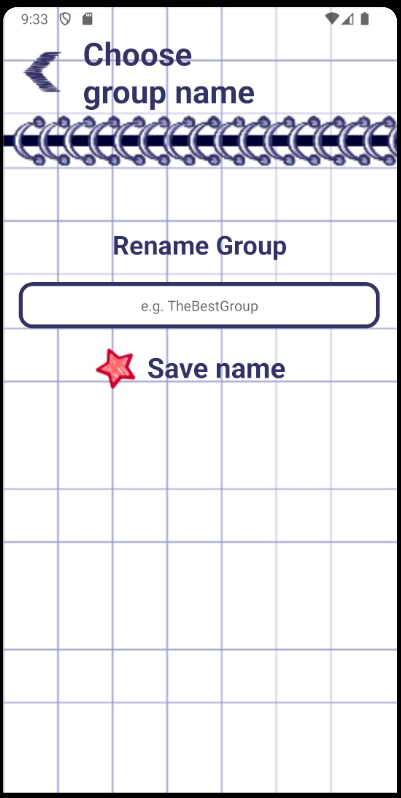
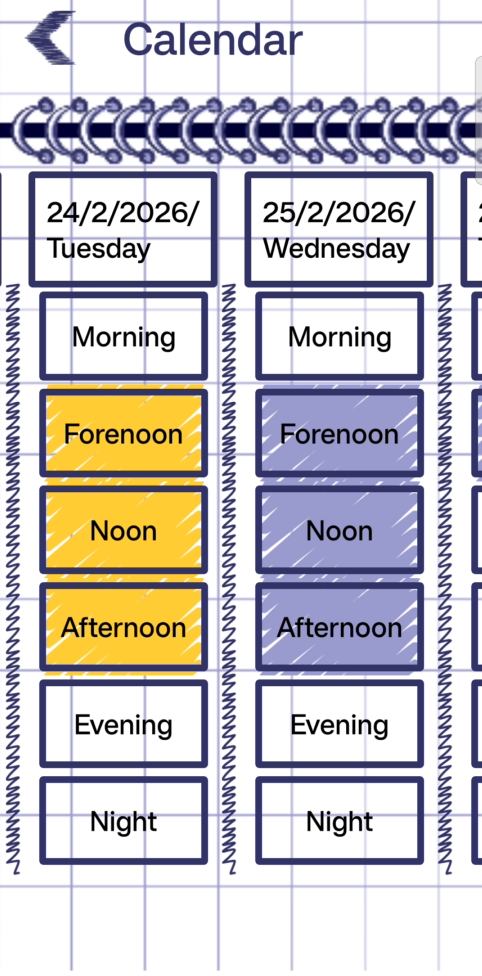
Added Coordit and added parameter for projectpages carousel options

diff --git a/src/app/projects/project-pages/project-page.html b/src/app/projects/project-pages/project-page.html
@@ -5,15 +5,18 @@
     <span class="techonologies-used">{{project().technologiesUsed?.join(", ")}}</span>
     }
     @if (!isUndefined(project().screenshotFolder)) {
-    <pp-carousel-holder-component [screenshotFolder]="project().screenshotFolder??''"
+    <pp-carousel-holder-component [customOptionsInput]="project().carouselOptions"
+        [screenshotFolder]="project().screenshotFolder??''"
         [screenshotFilenames]="project().screenshotFilenames??[]"></pp-carousel-holder-component>
     }
 
     <project-description [descriptionText]="project().longDescription"></project-description>
 
+    @if(!isUndefined(project().linkText)) {
     <p class="link-to-project"
-        [innerHTML]="parseLinkText(project().linkText??'See the project [here]', project().linkToProject)">
+        [innerHTML]="parseLinkText(project().linkText??'See the project [here]', project().linkToProject??'')">
     </p>
+    }
 
     @if(!isUndefined(project().alternateLinkToProject)) {
     <p class="link-to-project"

diff --git a/src/app/projects/project-pages/pp-carousel/pp-carousel-holder-component.ts b/src/app/projects/project-pages/pp-carousel/pp-carousel-holder-component.ts
@@ -25,10 +25,8 @@ export class PPCarouselHolderComponent {
     customOptions: OwlOptions = {
         loop: true,
         items: 1,
-        mouseDrag: true,
-        touchDrag: true,
-        center: true,
-        pullDrag: false,
+        autoWidth: true,
+        autoHeight: false,
         dots: false,
         navSpeed: 700,
         autoplaySpeed: 700,
@@ -36,12 +34,17 @@ export class PPCarouselHolderComponent {
         navText: ['', ''],
         nav: true
     }
+
     screenshotFolder = input.required<string>();
     screenshotFilenames = input.required<Array<string>>();
+    customOptionsInput = input<OwlOptions>();
 
     slidesStore = signal<any[]>([{ id: 'slide1' }]);
     ngOnInit() {
+
         this.slidesStore = signal<any[]>(this.createSlidesStore());
+        this.customOptions = { ...this.customOptions, ...this.customOptionsInput() }
+
     }
 
 }

diff --git a/src/app/projects/project-pages/pp-carousel/pp-carousel-holder.html b/src/app/projects/project-pages/pp-carousel/pp-carousel-holder.html
@@ -1,8 +1,9 @@
 <div class="carousel-container">
-    <owl-carousel-o [options]="customOptions">
+    <owl-carousel-o style="width: auto;max-height: 520px;" [options]="customOptions">
         @for (slide of slidesStore(); track slide.id) {
-        <ng-template carouselSlide [id]="slide.id">
-            <img [src]="slide.src" [alt]="slide.alt" [title]="slide.title">
+        <ng-template carouselSlide style="width: auto;max-height: 520px;" [id]="slide.id">
+            <img style="width: auto;max-height: 520px; border:1px solid black;" [src]="slide.src" [alt]="slide.alt"
+                [title]="slide.title">
         </ng-template>
         }
     </owl-carousel-o>

diff --git a/src/app/projects/project-type.ts b/src/app/projects/project-type.ts
@@ -1,3 +1,5 @@
+import { OwlOptions } from "ngx-owl-carousel-o";
+
 export type ProjectT = {
     id: number,
     name: string;
@@ -8,6 +10,7 @@ export type ProjectT = {
     shortDescription: string;
     public: boolean;
     linkToProject?: string;
+    carouselOptions?: OwlOptions;
     // for linkText wrap the section you want to hyperlink with square brackets: []  
     // Alternatively the link will be pasted in the end with [link]
     // To use square brackets in your text, use escape character: \

diff --git a/src/app/projects/project-pages/pp-carousel/pp-carousel-holder.scss b/src/app/projects/project-pages/pp-carousel/pp-carousel-holder.scss
@@ -3,6 +3,7 @@
     max-height: 520px;
 }
 
-img {
-    max-width: 100%;
+.owl-carousel .owl-item img {
+    width: auto;
+    max-height: 520px;
 }
